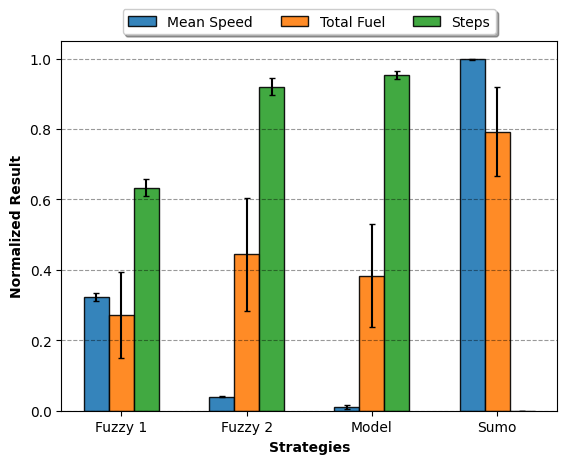
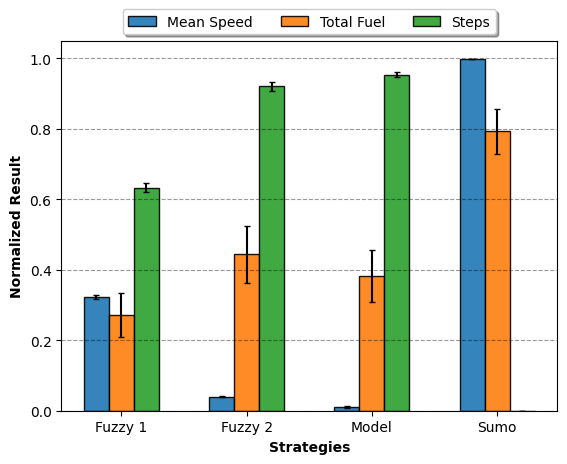
Oscarito panochita

diff --git a/lucas_plot.py b/lucas_plot.py
@@ -1,9 +1,18 @@
+import json
+import os
+import math
+
 import matplotlib.pyplot as plt
 import matplotlib.markers as plm
 import numpy as np
-import json
-import os
 import matplotlib.colors as mcolors
+
+def mean_confidence_interval(data, confidence=0.95):
+    a = 1.0 * np.array(data)
+    n = len(a)
+    m, se = np.mean(a), np.std(a)
+    h = 1.96 * (se/math.sqrt(n))
+    return (m, h)
 
 color1 = "tab:blue"
 color2 = "tab:orange"
@@ -92,15 +101,20 @@ xticklabels = ['Fuzzy 1', 'Fuzzy 2', 'Model', 'Sumo']
 
 for i in range(0, 3):
 
+    m1, s1 = mean_confidence_interval(data_list[i][0])
+    m2, s2 = mean_confidence_interval(data_list[i][1])
+    m3, s3 = mean_confidence_interval(data_list[i][2])
+    m4, s4 = mean_confidence_interval(data_list[i][3])
+
     ax.bar(np.arange(0, 4) + space[i],
-            [np.mean(data_list[i][0]), 
-             np.mean(data_list[i][1]), 
-             np.mean(data_list[i][2]), 
-             np.mean(data_list[i][3])],
-            yerr=[np.std(data_list[i][0]), 
-                    np.std(data_list[i][1]), 
-                    np.std(data_list[i][2]),
-                    np.std(data_list[i][3])],
+            [m1, 
+             m2, 
+             m3, 
+             m4],
+            yerr=[s1, 
+                  s2, 
+                  s3,
+                  s4],
             label=labels[i],
             width=0.2,
             alpha=0.9,
